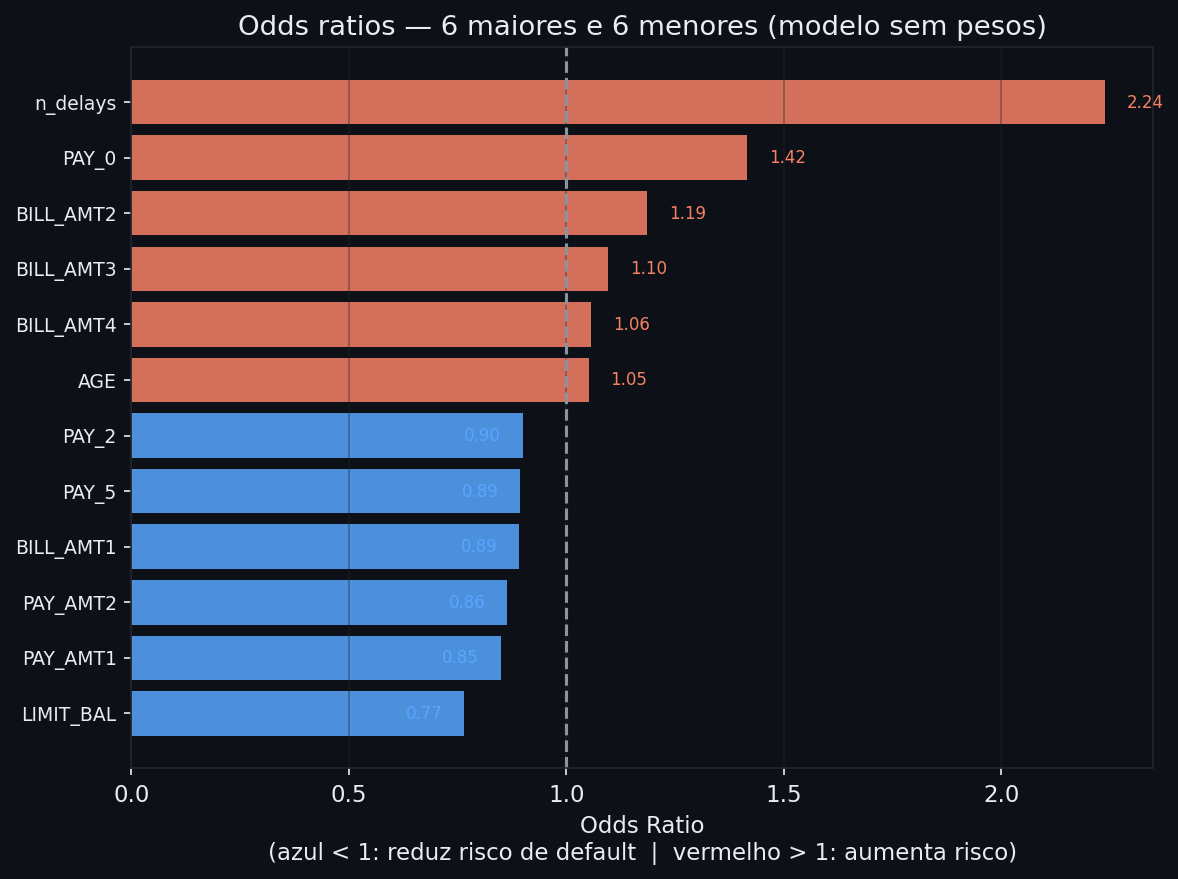
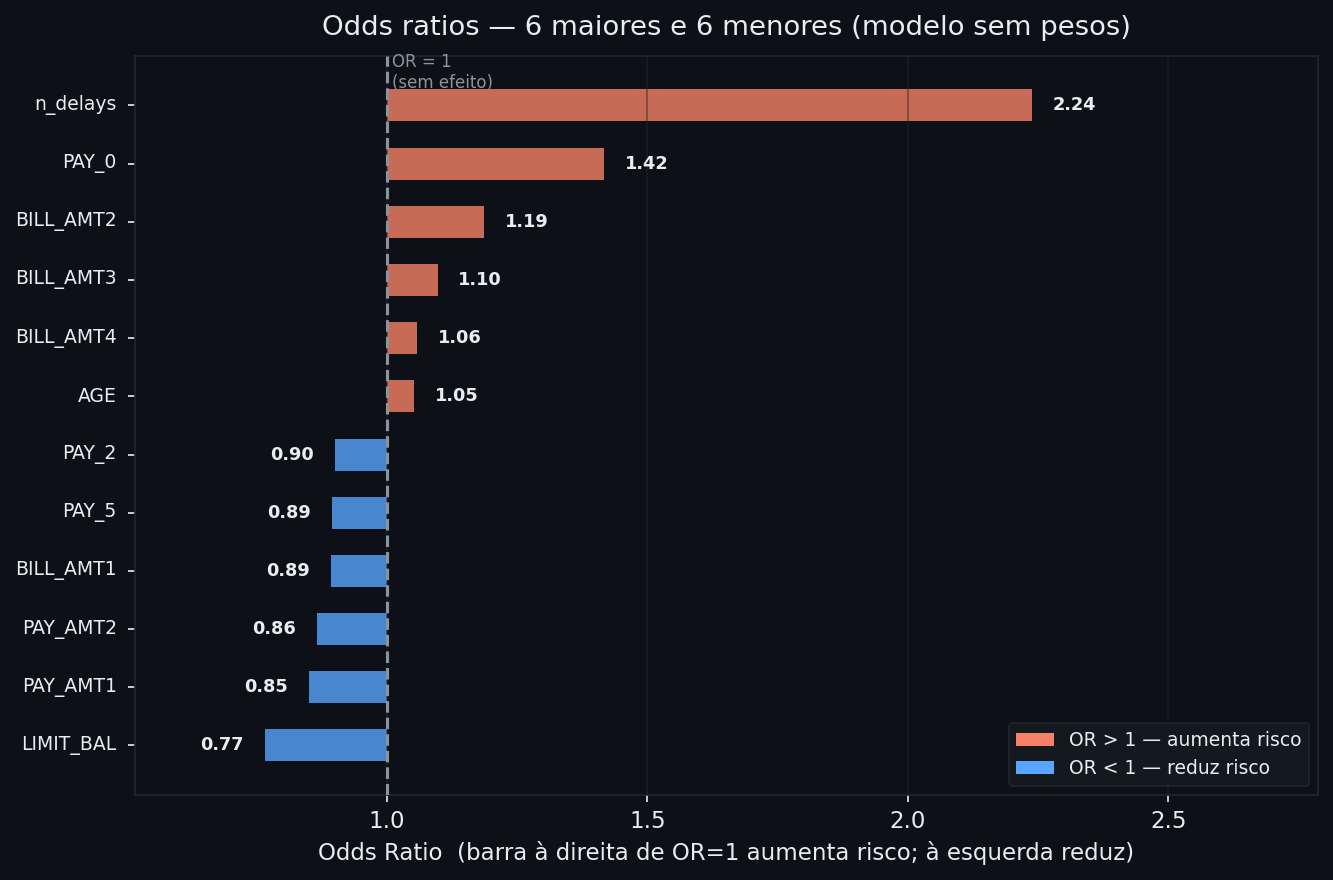
fix: corrige inline math, subscritos e layout de graficos na analise 03

diff --git a/01_machine_learning/supervisionado/analises/03_default_cartao_credito.md b/01_machine_learning/supervisionado/analises/03_default_cartao_credito.md
@@ -67,7 +67,7 @@ plt.rcParams.update({
 
 Em qualquer banco que opere sob Basileia II, a **Probabilidade de Default (PD)** é um insumo central: ela determina o capital regulatório mínimo exigido para cada exposição de crédito. Sob o IFRS 9, o aumento significativo da PD desde a originação é o gatilho para migração do Estágio 1 para o Estágio 2 — o que expande o horizonte de provisionamento de 12 meses para a vida inteira do ativo. Em ambos os contextos, o banco precisa de um modelo que estime probabilidades confiáveis por tomador, não apenas classifique binariamente.
 
-O modelo que construiremos aqui é um **scorecard probabilístico**: para cada cliente, produz $\hat{p}$, a probabilidade estimada de default no mês seguinte. O objetivo principal é ranquear os clientes do mais arriscado ao menos arriscado com o máximo de separação possível — não acertar uma classificação binária.
+O modelo que construiremos aqui é um **scorecard probabilístico**: para cada cliente, produz p̂, a probabilidade estimada de default no mês seguinte. O objetivo principal é ranquear os clientes do mais arriscado ao menos arriscado com o máximo de separação possível — não acertar uma classificação binária.
 
 Por isso a métrica de sucesso é a **AUC-ROC**, e não a acurácia. Acurácia é enganosa em dados desbalanceados: um modelo que prevê sempre "adimplente" acerta automaticamente 78% dos casos sem aprender nada. A AUC mede se o modelo atribui probabilidade maior ao inadimplente do que ao adimplente, para qualquer par aleatório de um e outro — isso captura exatamente o poder de ordenação por risco.
 
@@ -115,11 +115,11 @@ As variáveis estão organizadas em três grupos:
 |-------|-----------|-----------|
 | Demográficas | SEX, EDUCATION, MARRIAGE, AGE | Perfil do cliente |
 | Financeiras | LIMIT_BAL | Limite de crédito total concedido (NT$) |
-| Comportamentais | PAY\_0, PAY\_2–PAY\_6 | Status de pagamento nos últimos 6 meses (≤0 = em dia; 1–9 = meses de atraso) |
-| Históricas | BILL\_AMT1–6 | Valor da fatura por mês (NT$) |
-| Históricas | PAY\_AMT1–6 | Valor pago por mês (NT$) |
+| Comportamentais | PAY_0, PAY_2–PAY_6 | Status de pagamento nos últimos 6 meses (≤0 = em dia; 1–9 = meses de atraso) |
+| Históricas | BILL_AMT1–6 | Valor da fatura por mês (NT$) |
+| Históricas | PAY_AMT1–6 | Valor pago por mês (NT$) |
 
-*Nota: não existe PAY\_1 no dataset. A sequência vai de PAY\_0 (setembro de 2005) para PAY\_2 (agosto de 2005), numeração original do dataset.*
+*Nota: não existe PAY_1 no dataset. A sequência vai de PAY_0 (setembro de 2005) para PAY_2 (agosto de 2005), numeração original do dataset.*
 
 ![Distribuição do target: 23.364 adimplentes (77,9%) e 6.636 inadimplentes (22,1%).](assets/03_distribuicao_classes.png)
 
@@ -127,7 +127,7 @@ As variáveis estão organizadas em três grupos:
 
 ### 2.2 Padrão de pagamento e default
 
-A variável mais informativa antes de qualquer modelagem é o **status de pagamento mais recente** (PAY\_0). Calculando a taxa de default por valor de PAY\_0:
+A variável mais informativa antes de qualquer modelagem é o **status de pagamento mais recente** (`PAY_0`). Calculando a taxa de default por valor de `PAY_0`:
 
 ```python
 df_pay0 = pd.DataFrame({'PAY_0': X_raw['PAY_0'].values, 'default': y_all})
@@ -150,7 +150,7 @@ print(taxa.to_string())
 
 ![Taxa de default por status de pagamento (PAY_0). Barras azuis: em dia (PAY_0 ≤ 0). Barras vermelhas: meses de atraso. Linha dourada: taxa média (22%).](assets/03_pay0_vs_default.png)
 
-*Clientes em dia (PAY\_0 ≤ 0) têm taxa de default entre 13% e 17% — perto da média. Com 1 mês de atraso, a taxa salta para 34%. Com 2 meses, atinge 69%. A descontinuidade é acentuada: um único mês de atraso mais que dobra o risco. Isso orienta a modelagem — o histórico de pagamento recente deve dominar o modelo.*
+*Clientes em dia (PAY_0 ≤ 0) têm taxa de default entre 13% e 17% — perto da média. Com 1 mês de atraso, a taxa salta para 34%. Com 2 meses, atinge 69%. A descontinuidade é acentuada: um único mês de atraso mais que dobra o risco. Isso orienta a modelagem — o histórico de pagamento recente deve dominar o modelo.*
 
 ## Fase 3 — Preparação dos Dados
 
@@ -190,7 +190,7 @@ print(X_raw['n_delays'].value_counts().sort_index().to_string())
     5      188
     6       153
 
-*`n_delays` conta em quantos dos últimos 6 meses o cliente teve algum atraso (PAY > 0). Um cliente com `n_delays = 0` nunca atrasou nenhum mês; com `n_delays = 6`, atrasou todos os 6 meses. Esse atributo sintetiza em uma dimensão o padrão de comportamento que as 6 variáveis PAY\_ capturam individualmente.*
+*`n_delays` conta em quantos dos últimos 6 meses o cliente teve algum atraso (PAY > 0). Um cliente com `n_delays = 0` nunca atrasou nenhum mês; com `n_delays = 6`, atrasou todos os 6 meses. Esse atributo sintetiza em uma dimensão o padrão de comportamento que as 6 variáveis `PAY_*` capturam individualmente.*
 
 ### 3.2 Divisão e padronização
 
@@ -212,9 +212,9 @@ print(f"Teste : {X_test.shape[0]:,} obs  | {y_test.mean():.1%} default")
 
 ## Fase 4 — Modelagem
 
-A regressão logística com regularização L2 (Ridge logístico) é o ponto de partida natural para credit scoring: produz probabilidades calibradas pelo MLE, os coeficientes são interpretáveis via odds ratios e a penalidade L2 evita que coeficientes cresçam descontroladamente em preditores correlacionados — o que é relevante aqui, já que as 6 variáveis PAY\_ e o atributo `n_delays` derivado delas carregam informação parcialmente redundante.
+A regressão logística com regularização L2 (Ridge logístico) é o ponto de partida natural para credit scoring: produz probabilidades calibradas pelo MLE, os coeficientes são interpretáveis via odds ratios e a penalidade L2 evita que coeficientes cresçam descontroladamente em preditores correlacionados — o que é relevante aqui, já que as 6 variáveis `PAY_*` e o atributo `n_delays` derivado delas carregam informação parcialmente redundante.
 
-Treinamos dois modelos com os mesmos hiperparâmetros ($C = 1$), diferenciados apenas pelo tratamento do desequilíbrio:
+Treinamos dois modelos com os mesmos hiperparâmetros (C = 1), diferenciados apenas pelo tratamento do desequilíbrio:
 
 ```python
 m1 = LogisticRegression(C=1, max_iter=1000, random_state=42)
@@ -231,9 +231,9 @@ print(f"AUC — Modelo 2 (com pesos): {roc_auc_score(y_test, p2):.3f}")
     AUC — Modelo 1 (sem pesos): 0.740
     AUC — Modelo 2 (com pesos): 0.743
 
-*Os dois modelos têm AUC praticamente idêntica. Isso faz sentido: a AUC é uma métrica de ranqueamento — ela avalia se o modelo coloca inadimplentes antes de adimplentes — e o ranqueamento relativo se preserva mesmo quando os coeficientes mudam. O `class_weight='balanced'` altera a fronteira de decisão (os $\hat{\boldsymbol{\beta}}$ estimados mudam, conforme discutido na nota), mas não altera significativamente quem o modelo considera mais ou menos arriscado em termos relativos.*
+*Os dois modelos têm AUC praticamente idêntica. Isso faz sentido: a AUC é uma métrica de ranqueamento — ela avalia se o modelo coloca inadimplentes antes de adimplentes — e o ranqueamento relativo se preserva mesmo quando os coeficientes mudam. O `class_weight='balanced'` altera a fronteira de decisão (os β̂ estimados mudam, conforme discutido na nota), mas não altera significativamente quem o modelo considera mais ou menos arriscado em termos relativos.*
 
-*O parâmetro $C$ controla a intensidade da regularização: $C = 1/\lambda$, então $C = 1$ é o valor padrão do scikit-learn. Ajustar $C$ via validação cruzada — o procedimento correto para produção — é o tema da [nota de regularização](../notas/02_regularizacao.md).*
+*O parâmetro C controla a intensidade da regularização: C = 1/λ, então C = 1 é o valor padrão do scikit-learn. Ajustar C via validação cruzada — o procedimento correto para produção — é o tema da [nota de regularização](../notas/02_regularizacao.md).*
 
 ## Fase 5 — Avaliação
 
@@ -247,7 +247,7 @@ print(f"AUC — Modelo 2 (com pesos): {roc_auc_score(y_test, p2):.3f}")
 
 ### 5.2 Decisões — matrizes de confusão
 
-Aplicando o limiar padrão de $\tau = 0.5$, a diferença operacional entre os dois modelos se torna concreta:
+Aplicando o limiar padrão de τ = 0,5, a diferença operacional entre os dois modelos se torna concreta:
 
 ```python
 print("── Modelo 1 — sem pesos ──────────────────────────────────────────────")
@@ -303,14 +303,14 @@ df_or      = (pd.DataFrame({'feature': feat_names, 'or': or_vals})
 
 O modelo logístico com `class_weight='balanced'` é o mais adequado para monitoramento de carteira: captura 56% dos inadimplentes com um mês de antecedência, o que é suficiente para acionar alertas preventivos e ajustar limites antes do evento de default. Ele produz probabilidades calibradas — consequência direta do MLE — que podem ser usadas diretamente como estimativas de PD em sistemas de scoring regulatório.
 
-O resultado central é econometricamente coerente: **comportamento de pagamento acumulado domina todo o resto**. O atributo engineerado `n_delays` supera PAY\_0 isolado, o que reforça que a consistência ao longo do tempo é mais preditiva do que um incidente pontual. O limite de crédito é inversamente relacionado ao default por seleção histórica do banco, e variáveis demográficas têm peso marginal — um resultado relevante sob óticas de equidade de crédito, dado que mostra que incluí-las acrescenta pouco e pode criar passivo regulatório.
+O resultado central é econometricamente coerente: **comportamento de pagamento acumulado domina todo o resto**. O atributo engineerado `n_delays` supera `PAY_0` isolado, o que reforça que a consistência ao longo do tempo é mais preditiva do que um incidente pontual. O limite de crédito é inversamente relacionado ao default por seleção histórica do banco, e variáveis demográficas têm peso marginal — um resultado relevante sob óticas de equidade de crédito, dado que mostra que incluí-las acrescenta pouco e pode criar passivo regulatório.
 
 **Limitações desta análise:**
 
 - O dataset representa Taiwan em 2005; comportamentos de pagamento, condições econômicas e regulação diferem de outros mercados e períodos.
 - Não há validação *out-of-time* — treinar em períodos anteriores e testar em posteriores, que é o padrão exigido em modelos de PD regulatórios para demonstrar estabilidade temporal.
-- O hiperparâmetro $C$ não foi otimizado. A busca pelo $C$ ótimo via validação cruzada, descrita na [nota de regularização](../notas/02_regularizacao.md), tende a melhorar modestamente a AUC.
-- A inclusão simultânea de `n_delays` e dos 6 atributos PAY\_ individuais gera colinearidade. Um próximo passo natural é testar o modelo apenas com `n_delays` e PAY\_0 para quantificar o quanto a informação individual acrescenta além do agregado.
+- O hiperparâmetro C não foi otimizado. A busca pelo C ótimo via validação cruzada, descrita na [nota de regularização](../notas/02_regularizacao.md), tende a melhorar modestamente a AUC.
+- A inclusão simultânea de `n_delays` e dos 6 atributos `PAY_*` individuais gera colinearidade. Um próximo passo natural é testar o modelo apenas com `n_delays` e `PAY_0` para quantificar o quanto a informação individual acrescenta além do agregado.
 
 ---
 